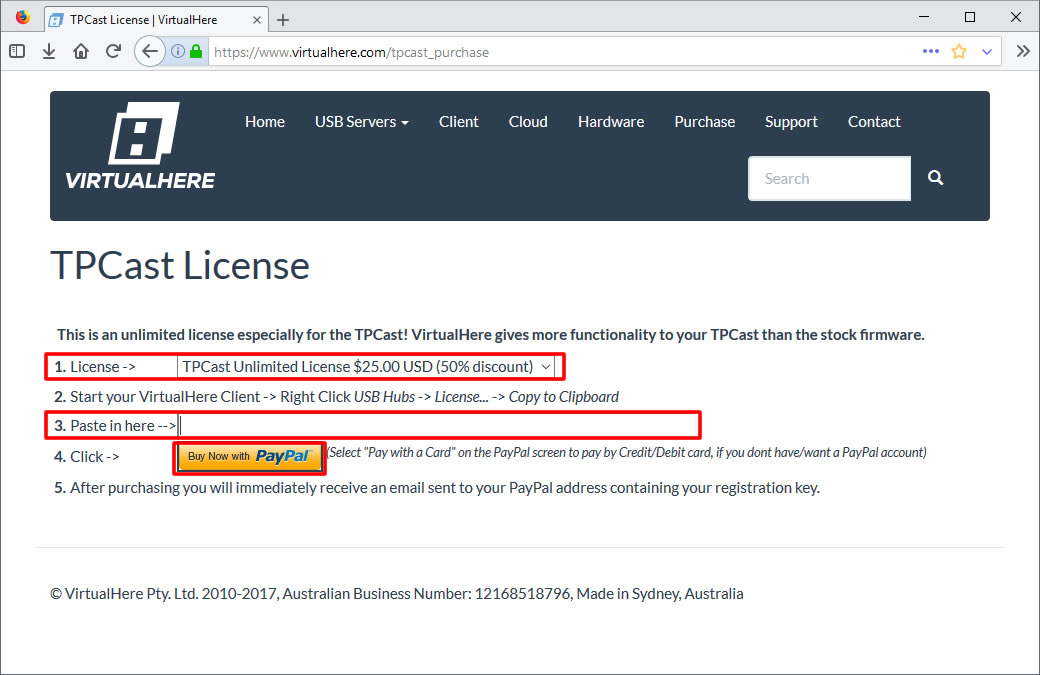
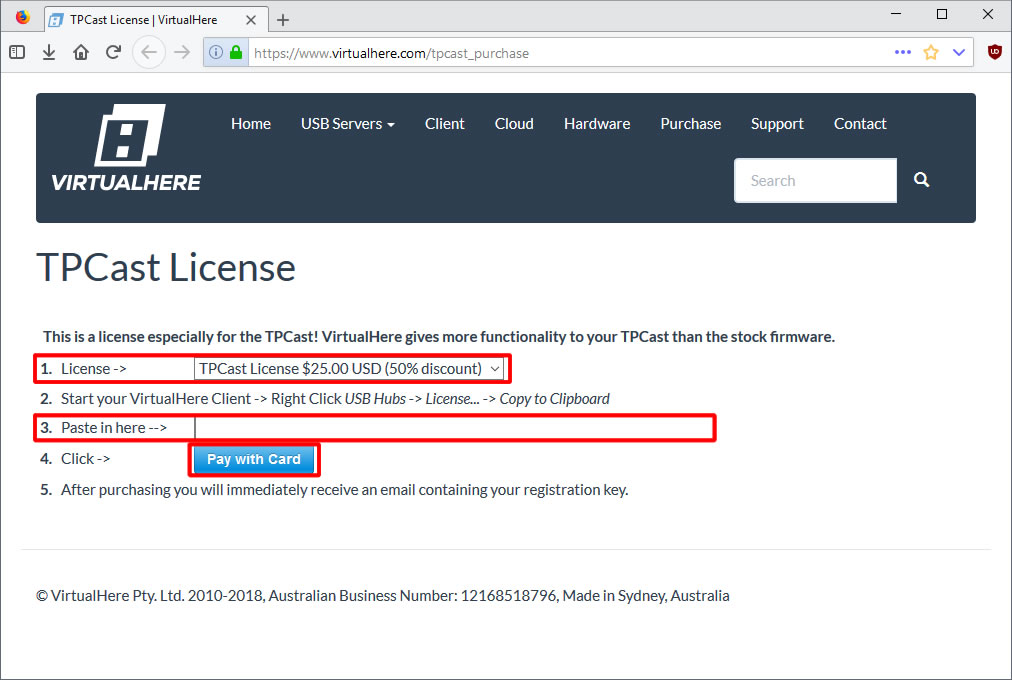
Updated guide for purchasing VirtualHere licence.

diff --git a/guides/UPGRADE.md b/guides/UPGRADE.md
@@ -106,7 +106,7 @@ Once the TPCast device is listed in VirtualHere USB Client, you can then [purcha
 1. Select `TPCast Unlimited Licence` from the `Licence` drop down menu.
 1. In VirtualHere USB Client, right click `USB Hubs`, select `Licence...` and click `Copy to Clipboard`.
 1. Switch back to the web browser, and paste the contents of your clipboard into the `Paste in here` field.
-1. Click `Buy Now with PayPal` to complete the purchase, then check your inbox for a confirmation email containing the TPCast licence.
+1. Click `Pay with Card` to complete the purchase, then check your inbox for a confirmation email containing the TPCast licence.
 
 ### Applying The TPCast VirtualHere Licence
 ![Applying licence to VirtualHere USB Client](../img/virtualhere-licence.jpg)
